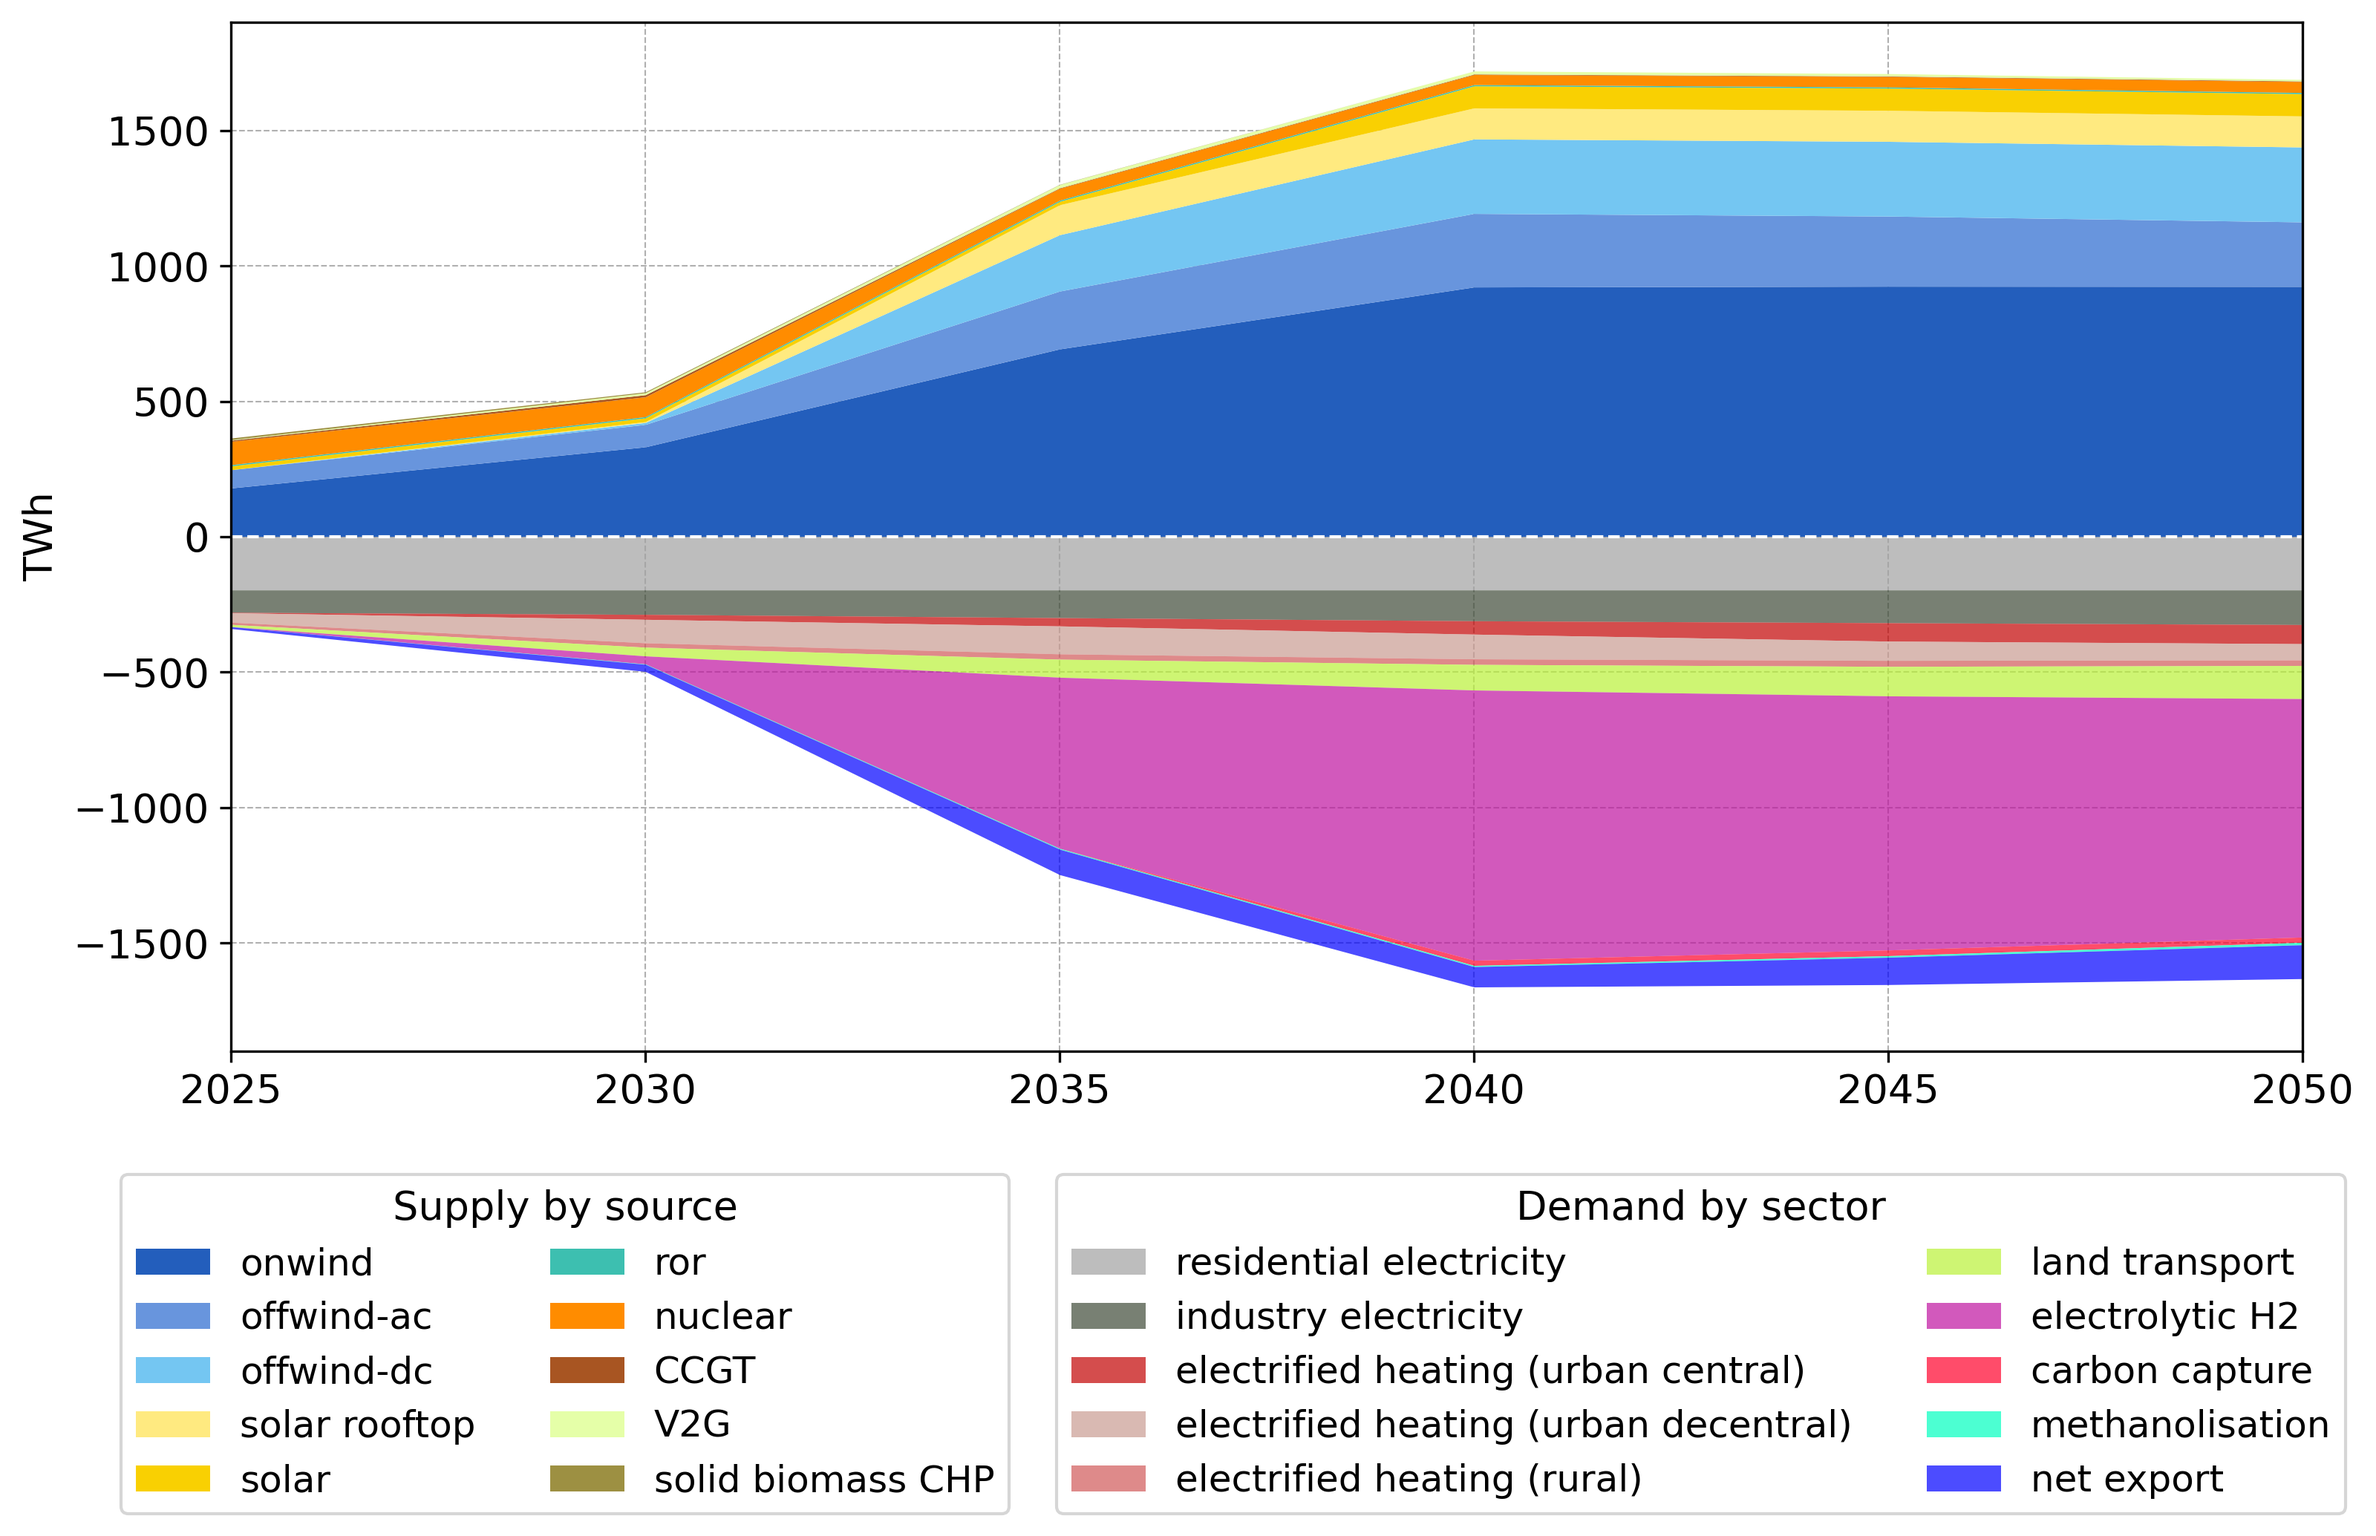
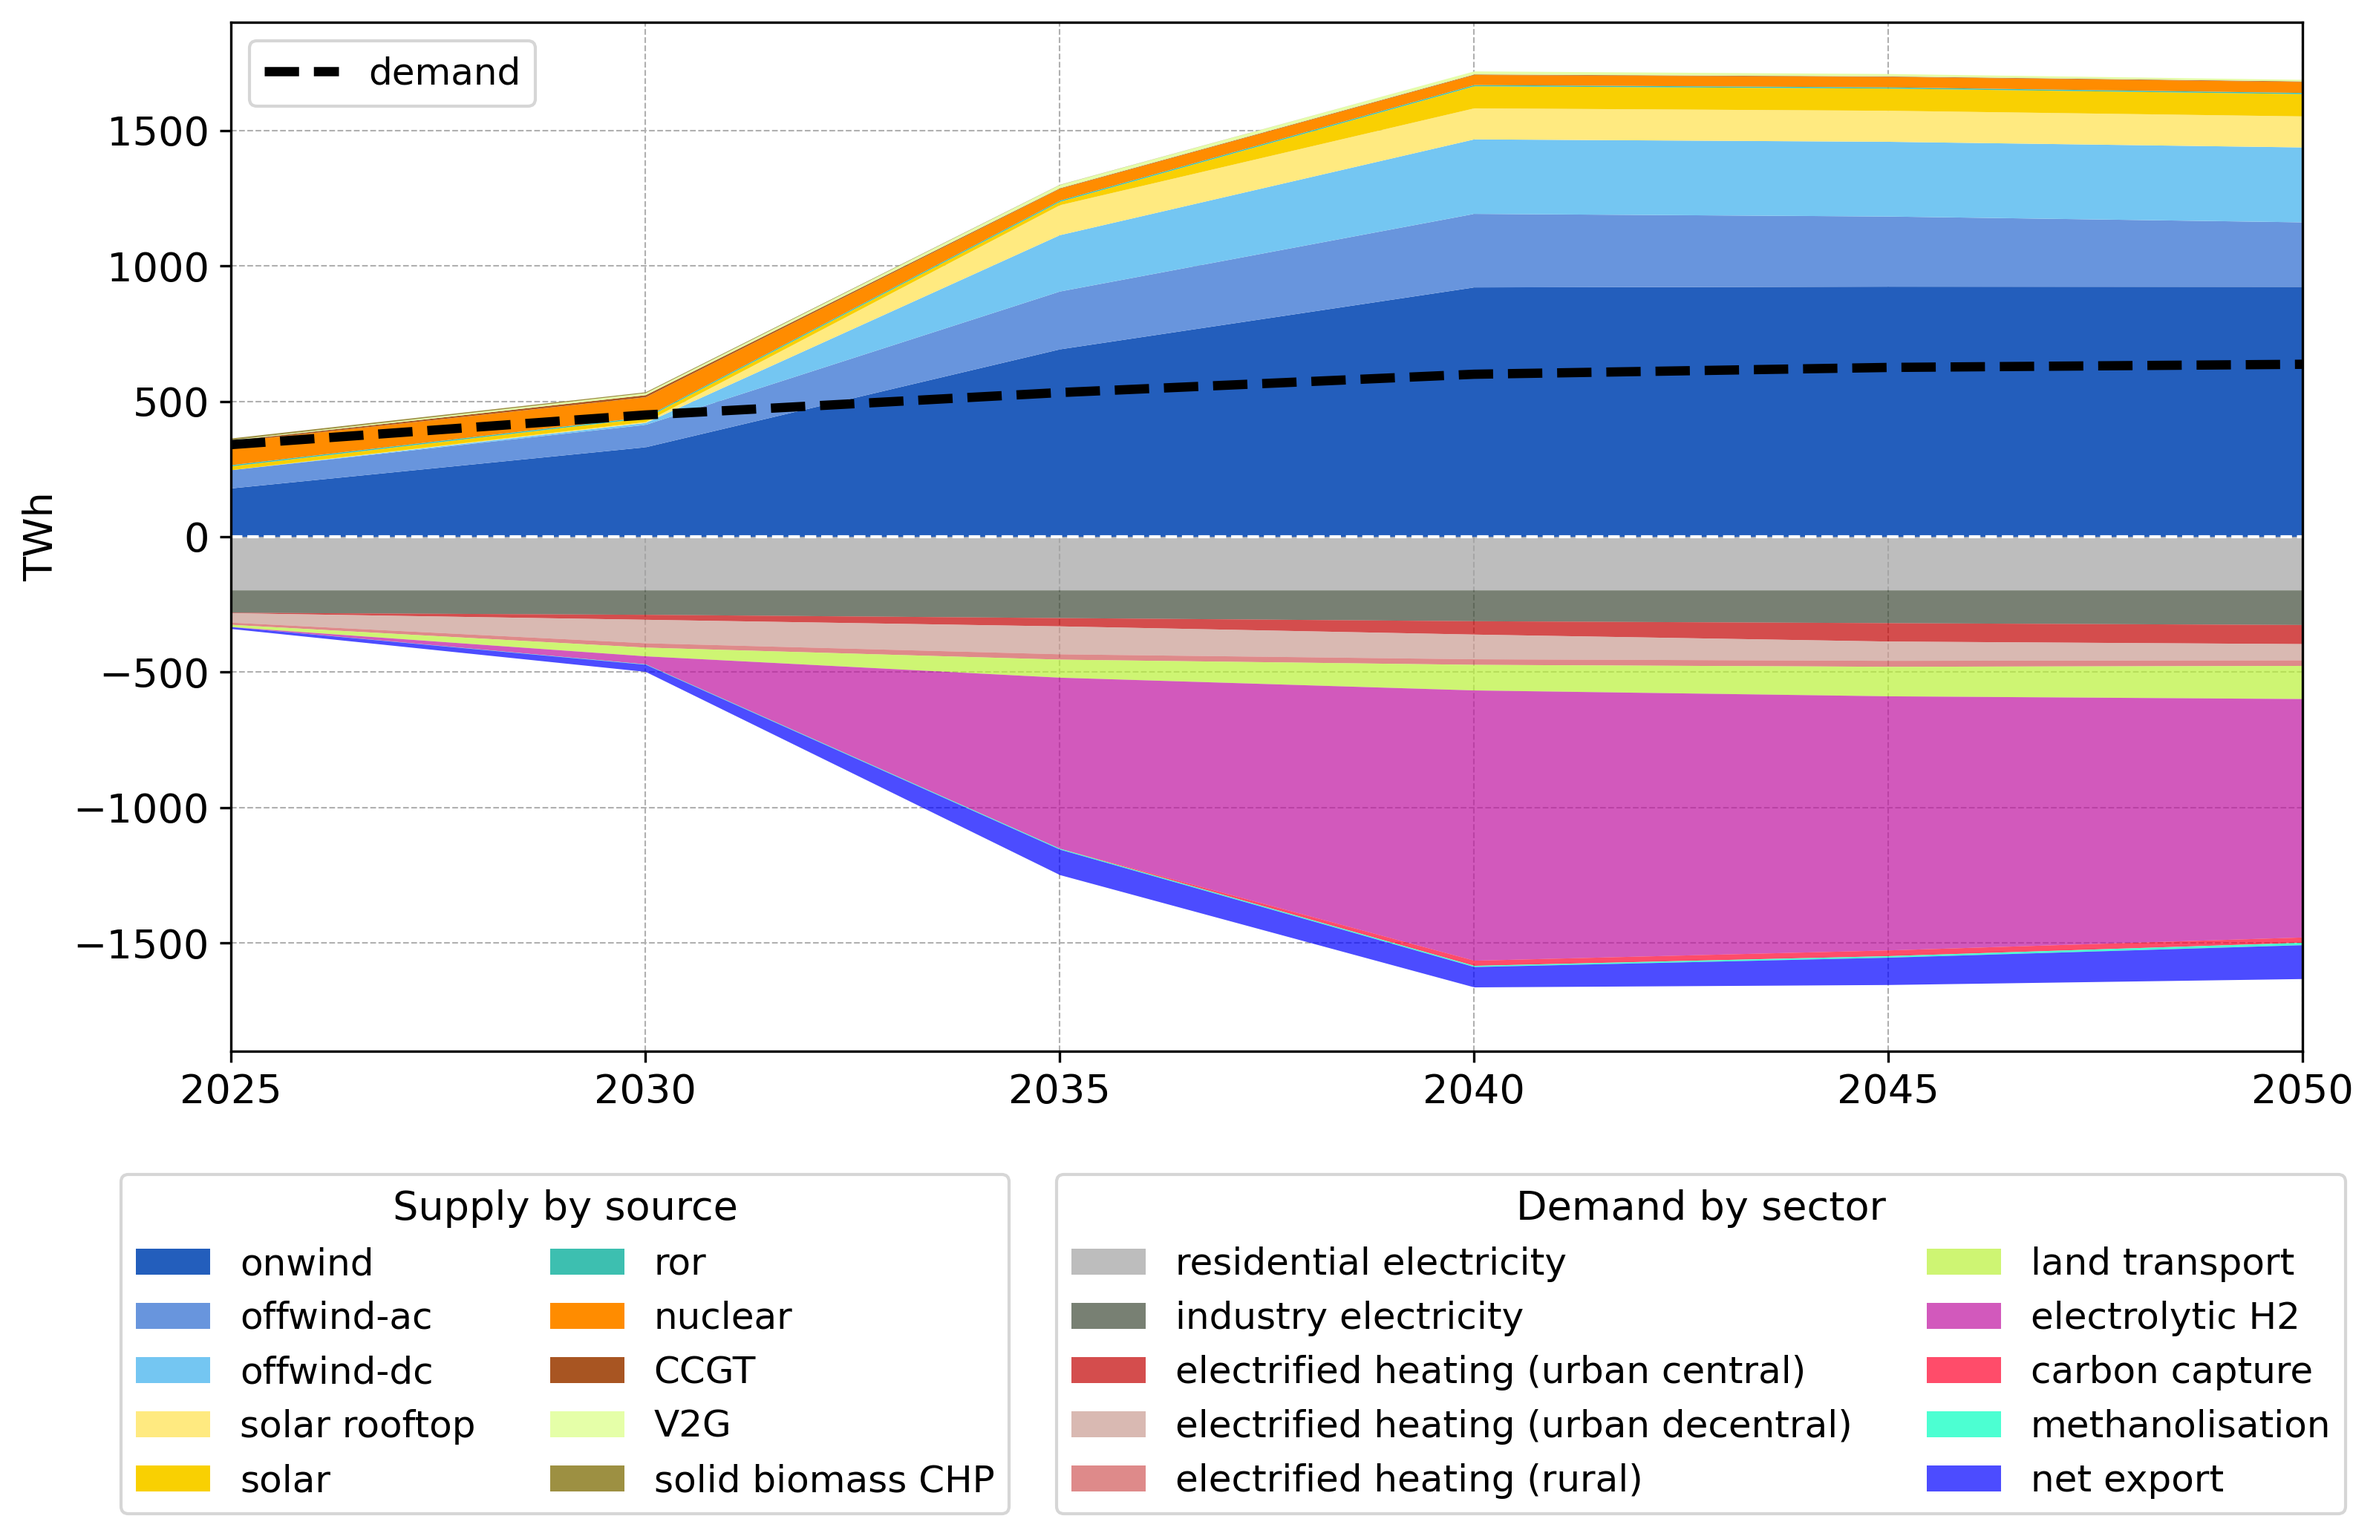
add demand as line plot

diff --git a/scripts/pathway_functions.py b/scripts/pathway_functions.py
@@ -277,14 +277,19 @@ def calculate_endogenous_demand(n):
 
     return endogenous_demands
 
-def calculate_nodal_electricity_demand(n):
+def calculate_nodal_electricity_demand(n, exclude_h2_from_demand = False):
     ###############
     # endogenous demand
     end_demand = calculate_endogenous_demand(n)
+    # exclude H2 demand if specified
+    if exclude_h2_from_demand:
+        end_demand = end_demand.T.loc[~end_demand.columns.str.contains("H2")].T
     # group by bus0 (electricity buses where loads are located)
-    end_demand = end_demand.T.groupby(n.links.loc[end_demand.columns].bus0.str.replace(" low voltage", "")).sum()
+    end_demand = end_demand.T.groupby(n.links.loc[end_demand.columns].bus0.str.replace(" low voltage", "")).sum().T
+    # rename buses 
+    end_demand.columns = end_demand.columns.str.replace(" H2", "").str.replace(" gas", "")
     # after renaming, group again to sum any duplicate buses
-    end_demand = end_demand.groupby(end_demand.index).sum().T
+    end_demand = end_demand.T.groupby(end_demand.columns).sum().T
 
     # exogenous demand
     exo_demand = n.loads_t.p[n.loads.carrier[n.loads.carrier.str.contains("electricity")].index]
@@ -295,7 +300,7 @@ def calculate_nodal_electricity_demand(n):
 
     # only use GB nodes
     nodal_demand = nodal_demand.loc[:, nodal_demand.columns.str.contains(country)].T
-    
+
     return nodal_demand
 
 def calculate_electricity_sinks(n):
@@ -1043,12 +1048,14 @@ def make_interactive_map(token, capacity, filename, years, scen, n_mapping = Fal
 
 def plot_energy_mix(variables, scen, years, var_label = "annual_heat_demand_TWh", preferred_order = preferred_order_heating):
     
-    df_1 = pd.DataFrame(index = years) # supply
-    df_2 = pd.DataFrame(index = years) # demand by sector
+    df_1 = pd.DataFrame(index = years) # supply 
+    df_2 = pd.DataFrame(index = years) # sinks (including additional consumption for storage and conversion)
+    df_3 = {}
 
     for year in years:
         var_1 = variables[0][f"{scen}-{year}"].drop(columns = ["country", "parent", "contains", "substations", "geometry"])
         var_2 = variables[1][f"{scen}-{year}"]
+        df_3[year] = variables[2][f"{scen}-{year}"][var_label].sum()
         
         if "heat" in var_label:
             var_1.columns = var_1.columns.str.replace("rural ","")
@@ -1074,6 +1081,7 @@ def plot_energy_mix(variables, scen, years, var_label = "annual_heat_demand_TWh"
     df_1 = df_1[df_1_columns]
     df_2_columns = df_2.columns[df_2.sum() > (threshold * df_2.sum().sum())]
     df_2 = df_2[df_2_columns]
+    df_3 = pd.Series(df_3)
 
     df_2.rename(columns = {"methanol": "methanolisation"}, inplace=True)
 
@@ -1101,17 +1109,13 @@ def plot_energy_mix(variables, scen, years, var_label = "annual_heat_demand_TWh"
     ax.set_xlim(2025, 2050)
     ax.set_ylabel("TWh")
 
-    # plot heat_demand_agg_series as a dashed line
-    # ax.plot(df_2.index, df_2.sum(axis=1), 
-    #         color='black', lw=3, ls='--', label='"demand"', zorder = 100)
-
     ax.axhline(y=0, color='white', lw=1, ls="--")
 
     # add legend below plot
     handles, labels = ax.get_legend_handles_labels()
     leg_y_pos_1 = -0.25 if not "heat" in var_label else -0.33
     leg_x_pos_1 = 0.25 if not "heat" in var_label else 0.25
-    fig.legend(handles, labels, loc='lower center', ncol=2, fontsize=12, bbox_to_anchor=(leg_x_pos_1, leg_y_pos_1), title="Supply by source")
+    fig.legend(handles, labels, loc='lower center', ncol=2, fontsize=fs-1, bbox_to_anchor=(leg_x_pos_1, leg_y_pos_1), title="Supply by source")
 
     (-df_2.loc[:, new_index_demand]).plot(kind='area', stacked=True, ax=ax, 
                                         color = [tech_colors[i] for i in new_index_demand], alpha=0.7,
@@ -1124,10 +1128,17 @@ def plot_energy_mix(variables, scen, years, var_label = "annual_heat_demand_TWh"
     nl = len(new_index_demand)
     leg_y_pos_2 = -0.25 if not "heat" in var_label else -0.25
     leg_x_pos_2 = 0.675 if not "heat" in var_label else 0.77
-    fig.legend(handles[-nl:], labels[-nl:], loc='lower center', ncol=2, fontsize=12, bbox_to_anchor=(leg_x_pos_2, leg_y_pos_2), title="Demand by sector")
+    fig.legend(handles[-nl:], labels[-nl:], loc='lower center', ncol=2, fontsize=fs-1, bbox_to_anchor=(leg_x_pos_2, leg_y_pos_2), title="Demand by sector")
 
     ax.set_ylim(-ylim, ylim)
     ax.grid(lw = 0.5, ls = '--')
     ax.set_axisbelow(True)
+
+    # plot heat_demand_agg_series as a dashed line
+    ax.plot(df_3.index, df_3, 
+            color='black', lw=3, ls='--', label = "demand", zorder = 100)
+    
+    handles, labels = ax.get_legend_handles_labels()
+    ax.legend(handles[-1:], labels[-1:], loc='upper left', fontsize=fs-1)
 
     return fig
